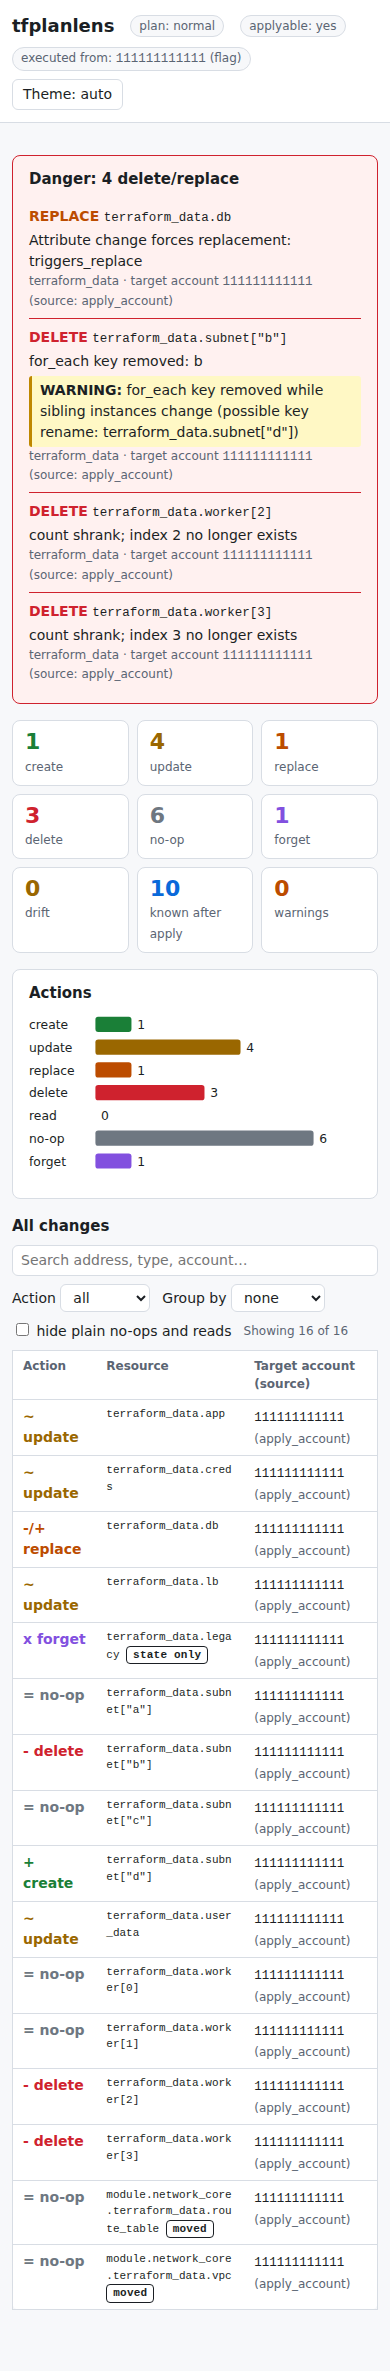
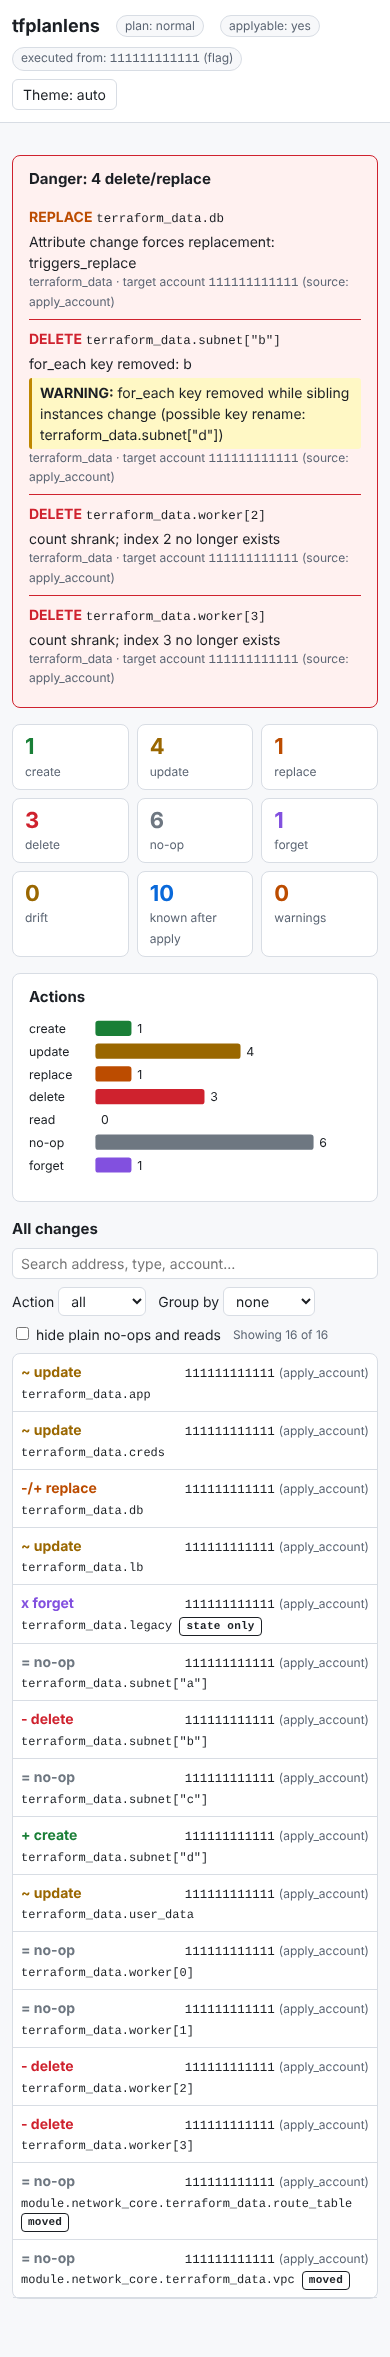
HTML: stack table rows on phones so addresses are not broken mid-word
Claude-Session: https://claude.ai/code/session_015yQxJZ5uv6SzK36crYgc9w

diff --git a/docs/smoke/complex/report.html b/docs/smoke/complex/report.html
@@ -84,10 +84,19 @@ details.full > pre { max-height: 360px; overflow: auto; border: 1px solid var(--
 .hidden { display: none !important; }
 @media (max-width: 700px) {
   main, header { padding-left: 12px; padding-right: 12px; }
-  /* Keep Action, Resource and Target account; Type and Module are in the drawer. */
-  th:nth-child(3), td:nth-child(3), th:nth-child(5), td:nth-child(5) { display: none; }
-  td.addr { overflow-wrap: anywhere; word-break: normal; min-width: 9em; font-size: 11px; }
   .controls input[type="search"] { min-width: 0; width: 100%; }
+  /* Stack each row: action and account on one line, the address on its own
+     full-width line, so long addresses are not squeezed into a narrow column. */
+  table, tbody { display: block; }
+  thead { display: none; }
+  tr.row { display: grid; grid-template-columns: auto 1fr; grid-template-areas: "a c" "r r"; gap: 0 12px; padding: 6px 8px; border-bottom: 1px solid var(--line); }
+  tr.row td { border: 0; padding: 1px 0; }
+  tr.row td:nth-child(1) { grid-area: a; }
+  tr.row td:nth-child(4) { grid-area: c; text-align: right; }
+  tr.row td.addr { grid-area: r; overflow-wrap: anywhere; word-break: normal; font-size: 12px; }
+  tr.row td:nth-child(3), tr.row td:nth-child(5) { display: none; }
+  tr.group { display: block; }
+  tr.group td { display: block; }
 }
 @media print { #drawer, .controls, #theme { display: none; } }
 </style>

diff --git a/docs/smoke/simple/report.html b/docs/smoke/simple/report.html
@@ -84,10 +84,19 @@ details.full > pre { max-height: 360px; overflow: auto; border: 1px solid var(--
 .hidden { display: none !important; }
 @media (max-width: 700px) {
   main, header { padding-left: 12px; padding-right: 12px; }
-  /* Keep Action, Resource and Target account; Type and Module are in the drawer. */
-  th:nth-child(3), td:nth-child(3), th:nth-child(5), td:nth-child(5) { display: none; }
-  td.addr { overflow-wrap: anywhere; word-break: normal; min-width: 9em; font-size: 11px; }
   .controls input[type="search"] { min-width: 0; width: 100%; }
+  /* Stack each row: action and account on one line, the address on its own
+     full-width line, so long addresses are not squeezed into a narrow column. */
+  table, tbody { display: block; }
+  thead { display: none; }
+  tr.row { display: grid; grid-template-columns: auto 1fr; grid-template-areas: "a c" "r r"; gap: 0 12px; padding: 6px 8px; border-bottom: 1px solid var(--line); }
+  tr.row td { border: 0; padding: 1px 0; }
+  tr.row td:nth-child(1) { grid-area: a; }
+  tr.row td:nth-child(4) { grid-area: c; text-align: right; }
+  tr.row td.addr { grid-area: r; overflow-wrap: anywhere; word-break: normal; font-size: 12px; }
+  tr.row td:nth-child(3), tr.row td:nth-child(5) { display: none; }
+  tr.group { display: block; }
+  tr.group td { display: block; }
 }
 @media print { #drawer, .controls, #theme { display: none; } }
 </style>

diff --git a/internal/render/html/style.css b/internal/render/html/style.css
@@ -77,9 +77,18 @@ details.full > pre { max-height: 360px; overflow: auto; border: 1px solid var(--
 .hidden { display: none !important; }
 @media (max-width: 700px) {
   main, header { padding-left: 12px; padding-right: 12px; }
-  /* Keep Action, Resource and Target account; Type and Module are in the drawer. */
-  th:nth-child(3), td:nth-child(3), th:nth-child(5), td:nth-child(5) { display: none; }
-  td.addr { overflow-wrap: anywhere; word-break: normal; min-width: 9em; font-size: 11px; }
   .controls input[type="search"] { min-width: 0; width: 100%; }
+  /* Stack each row: action and account on one line, the address on its own
+     full-width line, so long addresses are not squeezed into a narrow column. */
+  table, tbody { display: block; }
+  thead { display: none; }
+  tr.row { display: grid; grid-template-columns: auto 1fr; grid-template-areas: "a c" "r r"; gap: 0 12px; padding: 6px 8px; border-bottom: 1px solid var(--line); }
+  tr.row td { border: 0; padding: 1px 0; }
+  tr.row td:nth-child(1) { grid-area: a; }
+  tr.row td:nth-child(4) { grid-area: c; text-align: right; }
+  tr.row td.addr { grid-area: r; overflow-wrap: anywhere; word-break: normal; font-size: 12px; }
+  tr.row td:nth-child(3), tr.row td:nth-child(5) { display: none; }
+  tr.group { display: block; }
+  tr.group td { display: block; }
 }
 @media print { #drawer, .controls, #theme { display: none; } }
